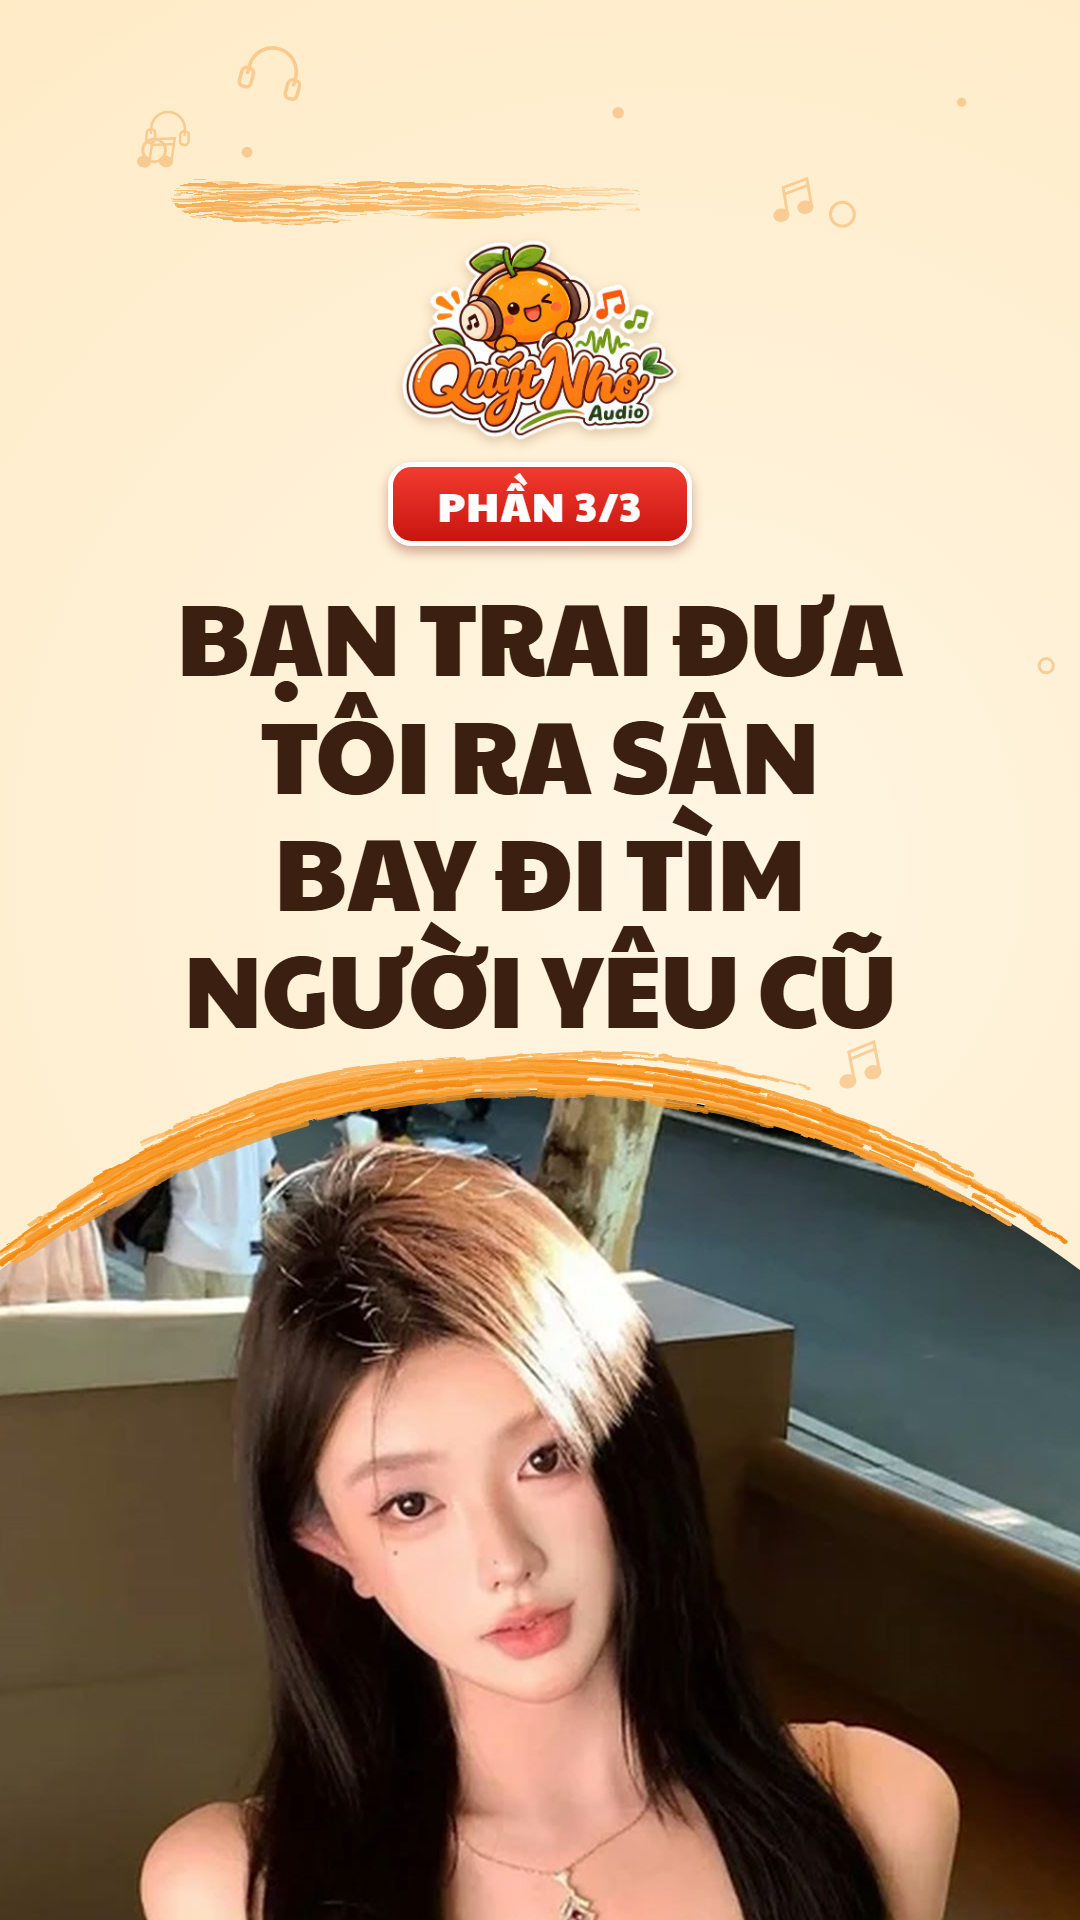
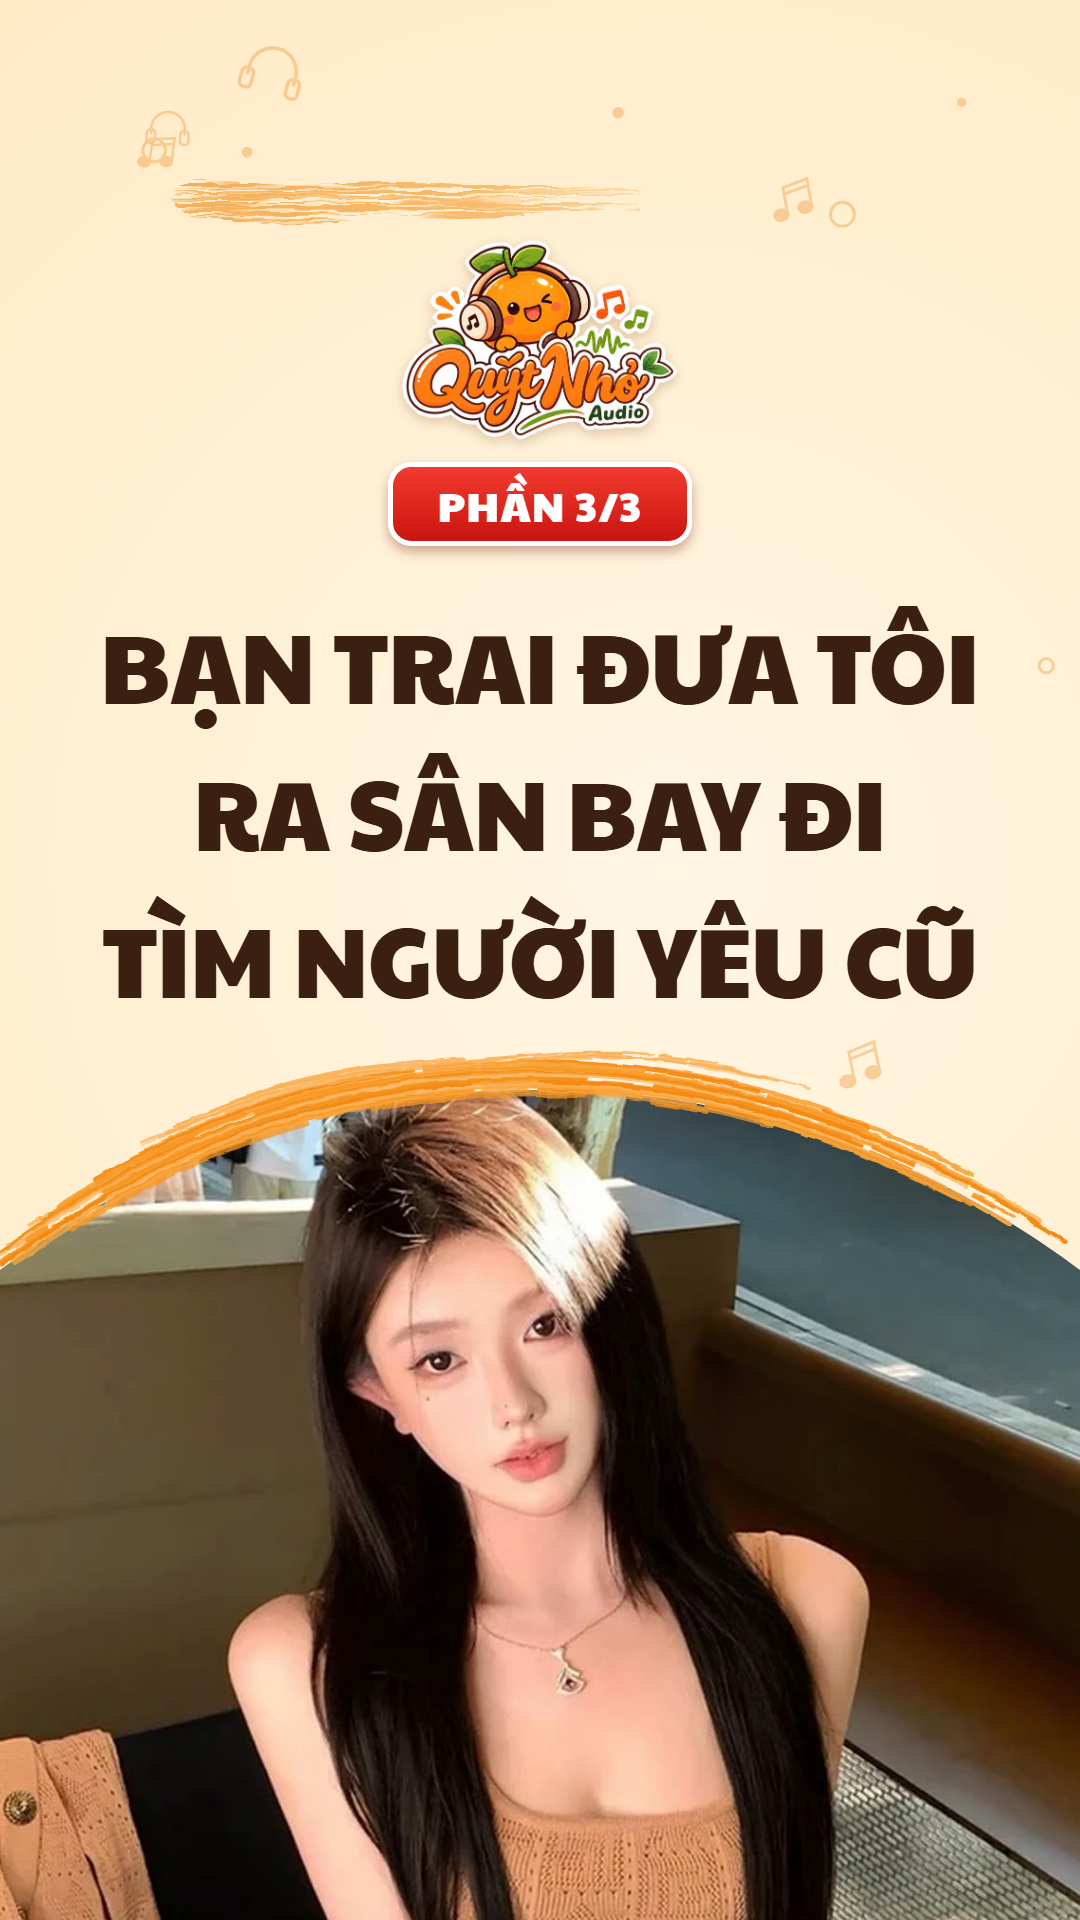
Cập nhật các tập tình cảm (tc001–tc008): bìa TikTok, thumb, episode.json, tap.md, tiêu chuẩn edit

diff --git a/references/edit-yeu-cau.md b/references/edit-yeu-cau.md
@@ -56,7 +56,7 @@ Thiết lập đang áp dụng cho mọi tập. Đọc trước khi sửa `src/`
 - **Người trong hình là người châu Á** khi lộ mặt hoặc dáng rõ. Clip chỉ có tay, đồ vật thì không ràng buộc. Từ khóa: asian, korean, japanese, chinese.
 - **Một tập, một tag; một tag, một video nguồn** (2026-11-22): mỗi tập chỉ dùng footage của một tag; mỗi tag là các đoạn cắt liên tiếp của **một** video nguồn (cùng bàn, cùng kiểu thao tác, cùng tông màu), một thư mục `public/footage/<tag>/`. Hai nguồn cùng chủ đề nhưng khác kiểu (ví dụ dán sticker vào tranh cảnh có sẵn và dán sổ journal) là hai tag. Lý do: trộn hai nguồn trong một video làm hình đổi kiểu đột ngột, nhìn không liền (quan sát ts002, 2026-11-22). Tag nguồn ngắn hơn tập thì chọn tag khác dài hơn, không ghép nguồn.
 - **Chạy liền, không cắt vụn** (2026-11-22): footage phát liền như video gốc: clip 01 từ đầu đến hết, rồi 02, 03... (các clip là đoạn liên tiếp của cùng nguồn nên chuyển clip gần như không thấy). Không đổi cảnh theo nhịp vài chục giây. Tập dài hơn tổng tag thì quay lại clip 01. Bản TikTok lấy đúng đoạn footage cùng mốc thời gian với bản YouTube. Nguồn nên dài ≥ độ dài tập (ưu tiên 30 phút–1 giờ+).
-- **Độ sáng** (2026-11-22): xem độ sáng thực của footage sau `dim` ở mỗi lần render, không giữ mặc định máy móc. Đo độ sáng trung bình Y của tag (`ffmpeg -i clip -vf signalstats`, Y trung bình ~130–145 ở `sticker`, `painting`); sau `dim` hình phải còn sáng, màu rõ, không xám tối (sticker, painting: `dim` 0,05; 0,4 làm tối rõ, quan sát tc002, tc004). Xem một khung của mỗi bản render trước khi giao.
+- **Độ sáng** (2026-11-22): xem độ sáng thực của footage sau `dim` ở mỗi lần render, không giữ mặc định máy móc. Đo độ sáng trung bình Y của tag (`ffmpeg -i clip -vf signalstats`, Y trung bình ~130–145 ở `sticker`, `painting`); sau `dim` hình phải còn sáng, màu rõ, không xám tối (mặc định `dim` 0,15; 0,4 làm tối rõ, quan sát tc002, tc004). Xem một khung của mỗi bản render trước khi giao.
 - **Mỗi tập một thứ tự footage** (2026-11-22): tập dùng chung tag với tập khác phải bắt đầu ở clip khác. `footageOffset` trong `episode.json` (số nguyên, mặc định 0) xoay vòng danh sách clip: offset 2 thì phát clip 03, 04, ..., hết tag quay về 01, 02. Mỗi tập của cùng một tag dùng offset khác nhau, chọn sao cho clip mở đầu không trùng nhau. Đặt ở `footageOffset`, đọc trong `src/FootageTrack.tsx` và `scripts/lib/ffmpeg-render.mjs`.
 - **Hướng clip**: ưu tiên clip ngang 16:9 cho bản YouTube (phủ kín khung). Clip dọc dùng được cho cả hai bản; ở bản YouTube sẽ có viền đen hai bên.
 - **Chủ đề**: nấu ăn cận cảnh; làm bánh; trang trí đồ ngọt; pha chế đồ uống màu; đồ thủ công pastel; làm gốm; vẽ tranh, tô màu, tô số hóa; ambience đêm; làm nail; ghép hình, dán sticker DIY cận cảnh.
@@ -101,5 +101,5 @@ Thiết lập đang áp dụng cho mọi tập. Đọc trước khi sửa `src/`
 - 2026-11-22: thêm tốc độ footage theo tag (`speed`, `footage-preview.mjs`); quy tắc crop ≥ 60% diện tích, cạnh ngắn ≥ 576 px; loại tag `bake`, `satisfying`; ts003 đổi sang `paint`.
 - 2026-11-22: thêm `start` theo tag (bỏ đoạn đầu clip 01); `craft` tốc độ 2, bỏ 86 giây đầu; `paint` bỏ 9 giây đầu có chữ kênh gốc.
 - 2026-11-22: thêm `footageOffset` theo tập (xoay vòng thứ tự clip) để các tập cùng tag không mở đầu và đi theo cùng một thứ tự footage.
-- 2026-11-22: footage không phủ kín khung (clip dọc trên khung ngang YouTube, clip vuông/ngang trên TikTok) đặt giữa nền kem họa tiết cùng mẫu bìa thay cho viền đen; `dim` chỉ áp cho footage; tập sticker, painting đặt `dim` 0,05 (0,4 làm hình tối). Thêm `render-episode --limit=giây` để render thử đoạn đầu.
+- 2026-11-22: footage không phủ kín khung (clip dọc trên khung ngang YouTube, clip vuông/ngang trên TikTok) đặt giữa nền kem họa tiết cùng mẫu bìa thay cho viền đen; `dim` chỉ áp cho footage; `dim` mặc định 0,15 (0,4 làm hình tối). Thêm `render-episode --limit=giây` để render thử đoạn đầu.
 - 2026-11-23: thêm quy tắc không trùng footage giữa các tập; kho ít thì đảo điểm vào của từng tập (chưa có trường riêng theo tập trong `episode.json`: đang là `start` theo tag, xem skill `footage-intake`).

diff --git a/episodes/tinh-cam/tc005-ban-than-cuop-nguoi-yeu-cha-nuoi/tap.md b/episodes/tinh-cam/tc005-ban-than-cuop-nguoi-yeu-cha-nuoi/tap.md
@@ -4,8 +4,8 @@
      Ô trống = chưa quyết. Ghi "gợi ý: ..." khi đã đề xuất nhưng chưa chốt. -->
 
 - **Truyện nguồn**: tc005, stories/tinh-cam/tc005-ban-than-cuop-nguoi-yeu-cha-nuoi.md
-- **Bước hiện tại**: 5
-- **Cập nhật**: 2026-11-21
+- **Bước hiện tại**: 7 (xong)
+- **Cập nhật**: 2026-11-24
 
 ## Quyết định
 
@@ -19,9 +19,8 @@
 | Bối cảnh | Hải Thành, hiện đại, tiền tệ |
 | Độ dài: số chương, phút; cách đủ độ dài | 9 chương, ~39 phút (~7.090 chữ); viết dày + 4 vòng mới (đã duyệt 2026-11-20) |
 | Chia phần TikTok | 3 phần, ch.1–6 (~63% truyện, 2026-11-21): P1 ch.1–2 (treo: dòng tin cũ bỏ qua bảy năm), P2 ch.3–4 (treo: cả nhóm bàn chuyện chú Lục), P3 ch.5–6 (treo: "camera hành lang đã quay lại tất cả"). Ch.7–9 chỉ ở YouTube. |
-| Giọng: dịch vụ, model, giọng, tốc độ (nguồn chính: `voice` trong `episode.json`) | |
-| Footage: chủ đề, nguồn, tag | Dán sticker DIY cận cảnh (tay, nhíp, tranh sticker), tag `sticker` (`public/footage/sticker/`); 19 clip dọc có sẵn ở `D:\Video Footage\Sticker` (đổi từ `cook`, 2026-11-21) |
-| Ảnh bìa: chữ (3–4 dòng), ảnh nhân vật (link nguồn), phương án A/B | chữ: "Bạn thân hôn|người yêu tôi|ngay *sinh nhật*"; ảnh: cô gái tóc dài nâu, áo đen yếm trắng (`public/tc005/thumb-bg.jpg`, từ ảnh người dùng gửi 2026-11-21) |
+| Giọng: dịch vụ, model, giọng, tốc độ (nguồn chính: `voice` trong `episode.json`) | minimax, speech-2.8-hd, tốc độ 1,2 (chi tiết ở `voice` trong `episode.json`) |
+| Footage: chủ đề, nguồn, tag | Vẽ acrylic lên đĩa tròn, cận cảnh tay; tag `paint-d` (`public/footage/paint-d/`), cắt từ video painting 2 giờ, đoạn 61:40–98:20; `dim` 0,15, `footageOffset` 0 |
 | Teaser TikTok 60–90 giây | |
 
 ## Tiến độ
@@ -30,9 +29,9 @@
 - [x] 2. Dàn ý: `outline.md`
 - [x] 3. Viết chương: `script/chNN.tts.txt` (đủ 9 chương, ~7.430 chữ)
 - [x] 4. Soát TTS (9 chương): báo cáo sạch
-- [ ] 5. Giọng: `audio/chNN.mp3`
-- [ ] 6. Footage: `public/footage/sticker/`
-- [ ] 7. Render: `out/`
+- [x] 5. Giọng: `audio/chNN.mp3`
+- [x] 6. Footage: `public/footage/paint-d/`
+- [x] 7. Render: `out/`
 
 ## Nhật ký
 
@@ -47,3 +46,4 @@
 - 2026-11-21: viết ch02–ch09 (tổng 9 chương, 7.428 chữ ≈ 41 phút); normalize-vi sạch cảnh báo; episode.json: 9 phần TikTok mỗi chương một phần. Chờ chốt giọng để gen.
 - 2026-11-21: đổi footage sang chủ đề Sticker (19 clip dọc 576×1024 / 720×1280, 4–13 phút, nguồn `D:\Video Footage\Sticker`), `footageTag` = `sticker`; chuẩn hóa vào `public/footage/sticker/`. Chuẩn bị ảnh bìa từ ảnh người dùng gửi (`prep-thumb`). Còn chờ chốt giọng để gen ch01–ch09.
 - 2026-11-21: chốt TikTok 3 phần (ch.1–6, dừng ở cú treo camera hành lang); `episode.json` `parts` còn 3 phần.
+- 2026-11-24: render lại YouTube và 3 phần TikTok với tag `paint-d`, `dim` 0,15; sửa lỗi tràn RAM ffmpeg ở nền footage dọc; thời lượng khớp audio, độ sáng đã kiểm.

diff --git a/episodes/tinh-cam/tc004-cuoi-chop-nhoang-chong-la-thieu-gia-giau-nhat/tap.md b/episodes/tinh-cam/tc004-cuoi-chop-nhoang-chong-la-thieu-gia-giau-nhat/tap.md
@@ -4,8 +4,8 @@
      Ô trống = chưa quyết. Ghi "gợi ý: ..." khi đã đề xuất nhưng chưa chốt. -->
 
 - **Truyện nguồn**: tc004, stories/tinh-cam/tc004-cuoi-chop-nhoang-chong-la-thieu-gia-giau-nhat.md
-- **Bước hiện tại**: 5
-- **Cập nhật**: 2026-11-21
+- **Bước hiện tại**: 7 (xong)
+- **Cập nhật**: 2026-11-24
 
 ## Quyết định
 
@@ -19,8 +19,8 @@
 | Bối cảnh | Hải Thành hiện đại; tập đoàn Nghiêm thị, Diệp thị đã phá sản; tôi bán xe ở đại lý ô tô; tiền là tệ |
 | Độ dài: số chương, phút; cách đủ độ dài | 9 chương, ~8.290 chữ ≈ 46 phút. Viết dày, vá logic (vì sao anh ở Cục dân chính, vì sao giấu thân phận, vì sao Doanh Doanh biết thân thế tôi); thêm vòng ch.3 (cửa hàng xe), ch.8 (tôi giăng bẫy vụ lừa cổ phần), ch.9 (lá thư của mẹ); "đơn ly hôn" thành giấy chuyển trả cổ phần |
 | Chia phần TikTok | 3 phần: ch.1, ch.2–3, ch.4–5 (~56% chữ, dừng cuối ch.5); chi tiết outline.md |
-| Giọng: dịch vụ, model, giọng, tốc độ (nguồn chính: `voice` trong `episode.json`) | |
-| Footage: chủ đề, nguồn, tag | |
+| Giọng: dịch vụ, model, giọng, tốc độ (nguồn chính: `voice` trong `episode.json`) | minimax, speech-2.8-hd, tốc độ 1,2 (chi tiết ở `voice` trong `episode.json`) |
+| Footage: chủ đề, nguồn, tag | tag `sticker-b` (một nguồn, chạy liền), `dim` 0,15, `footageOffset` 0 |
 | Ảnh bìa: chữ (3–4 dòng), ảnh nhân vật (link nguồn), phương án A/B | |
 | Teaser TikTok 60–90 giây | |
 
@@ -30,9 +30,9 @@
 - [x] 2. Dàn ý: `outline.md`
 - [x] 3. Viết chương: `script/chNN.tts.txt`
 - [x] 4. Soát TTS: báo cáo `normalize-vi.mjs` sạch
-- [ ] 5. Giọng: `audio/chNN.mp3`
-- [ ] 6. Footage: `public/footage/<tag>/`
-- [ ] 7. Render: `out/`
+- [x] 5. Giọng: `audio/chNN.mp3`
+- [x] 6. Footage: `public/footage/<tag>/`
+- [x] 7. Render: `out/`
 
 ## Nhật ký
 
@@ -40,3 +40,4 @@
 - 2026-11-21: sinh sẵn kịch bản bước 1–4 theo `references/kich-ban-hang-loat.md`; 9 chương, ~8.290 chữ, ~46 phút; dàn ý và chương chưa duyệt.
 - 2026-11-21: đổi tên để không trùng tập khác: Giang Ninh → Diệp Khê, Hoắc Cảnh Xuyên → Nghiêm Cảnh Xuyên (Hoắc thị → Nghiêm thị), Giang thị → Diệp thị, Chu Tiểu Đào → Đường Tiểu Đào.
 - 2026-11-21: chia lại TikTok theo chuẩn 3 phần (50–60% truyện): ch.1, ch.2–3, ch.4–5; điểm dừng chọn theo tỉ lệ chữ, cần duyệt theo độ tò mò.
+- 2026-11-24: render lại YouTube và 3 phần TikTok với tag `sticker-b`, `dim` 0,15; sửa lỗi tràn RAM ffmpeg ở nền footage dọc; thời lượng khớp audio, độ sáng đã kiểm.

diff --git a/episodes/tinh-cam/tc008-chong-nho-lai-tinh-cu-doi-ly-hon/tap.md b/episodes/tinh-cam/tc008-chong-nho-lai-tinh-cu-doi-ly-hon/tap.md
@@ -4,8 +4,8 @@
      Ô trống = chưa quyết. Ghi "gợi ý: ..." khi đã đề xuất nhưng chưa chốt. -->
 
 - **Truyện nguồn**: tc008, stories/tinh-cam/tc008-chong-nho-lai-tinh-cu-doi-ly-hon.md
-- **Bước hiện tại**: 5
-- **Cập nhật**: 2026-11-21
+- **Bước hiện tại**: 7 (xong)
+- **Cập nhật**: 2026-11-24
 
 ## Quyết định
 
@@ -19,8 +19,8 @@
 | Bối cảnh | Giang Thành hiện đại; biệt thự, tiệc từ thiện quỹ Tinh Hỏa, bệnh viện tư, khách sạn; một đoạn ở vũ hội mặt nạ tại Pa-ri; tiền là tệ |
 | Độ dài: số chương, phút; cách đủ độ dài | 11 chương, ~10.900 chữ ≈ 60 phút (180 chữ/phút; ở tốc độ giọng 1,2 thực tế ngắn hơn). Cắt từ ~78 phút: tuần du lịch, cảnh nấu ăn lặp, phần lớn ngoại truyện chồng cũ. Thêm: gieo câu "tiền mua được mọi thứ" ở ch.1 và manh mối logo quỹ ở ch.4, twist khoản chuyển tiền lên ch.10; Từ Mặc xuất hiện từ cuối ch.2; nữ chính quyết định giữ con ba ngày trước khi mất con (kể nhẹ); chú cháu đổi thành kết nghĩa, khác họ |
 | Chia phần TikTok | 3 phần: ch.1–2, ch.3–4, ch.5–6 (~55% chữ, dừng cuối ch.6); chi tiết outline.md |
-| Giọng: dịch vụ, model, giọng, tốc độ (nguồn chính: `voice` trong `episode.json`) | |
-| Footage: chủ đề, nguồn, tag | |
+| Giọng: dịch vụ, model, giọng, tốc độ (nguồn chính: `voice` trong `episode.json`) | minimax, speech-2.8-hd, tốc độ 1,2 (chi tiết ở `voice` trong `episode.json`) |
+| Footage: chủ đề, nguồn, tag | tag `sticker-c` (một nguồn, chạy liền), `dim` 0,15, `footageOffset` 0 |
 | Ảnh bìa: chữ (3–4 dòng), ảnh nhân vật (link nguồn), phương án A/B | |
 | Teaser TikTok 60–90 giây | |
 
@@ -30,12 +30,13 @@
 - [x] 2. Dàn ý: `outline.md`
 - [x] 3. Viết chương: `script/chNN.tts.txt`
 - [x] 4. Soát TTS: báo cáo `normalize-vi.mjs` sạch
-- [ ] 5. Giọng: `audio/chNN.mp3`
-- [ ] 6. Footage: `public/footage/<tag>/`
-- [ ] 7. Render: `out/`
+- [x] 5. Giọng: `audio/chNN.mp3`
+- [x] 6. Footage: `public/footage/<tag>/`
+- [x] 7. Render: `out/`
 
 ## Nhật ký
 
 - 2026-11-21: mở tập.
 - 2026-11-21: sinh sẵn kịch bản bước 1–4 theo `references/kich-ban-hang-loat.md`; 11 chương, ~10.900 chữ, ~60 phút; dàn ý và chương chưa duyệt.
 - 2026-11-21: chia lại TikTok theo chuẩn 3 phần (50–60% truyện): ch.1–2, ch.3–4, ch.5–6; điểm dừng chọn theo tỉ lệ chữ, cần duyệt theo độ tò mò.
+- 2026-11-24: render lại YouTube và 3 phần TikTok với tag `sticker-c`, `dim` 0,15; sửa lỗi tràn RAM ffmpeg ở nền footage dọc; thời lượng khớp audio, độ sáng đã kiểm.

diff --git a/episodes/tinh-cam/tc002-xuyen-ba-nam-bat-gap-nguoi-yeu-moi/tap.md b/episodes/tinh-cam/tc002-xuyen-ba-nam-bat-gap-nguoi-yeu-moi/tap.md
@@ -4,8 +4,8 @@
      Ô trống = chưa quyết. Ghi "gợi ý: ..." khi đã đề xuất nhưng chưa chốt. -->
 
 - **Truyện nguồn**: tc002, stories/tinh-cam/tc002-xuyen-ba-nam-bat-gap-nguoi-yeu-moi.md
-- **Bước hiện tại**: 5
-- **Cập nhật**: 2026-11-21
+- **Bước hiện tại**: 7 (xong)
+- **Cập nhật**: 2026-11-24
 
 ## Quyết định
 
@@ -19,8 +19,8 @@
 | Bối cảnh | Trung Quốc hiện đại: Thâm Quyến (quán nướng Phúc Điền) và Hàng Châu (căn hộ ven hồ); kết ở châu Phi; tiền là tệ; không ghi năm bằng số |
 | Độ dài: số chương, phút; cách đủ độ dài | 9 chương, ~8.000 chữ, ~44 phút. Gộp hai nguồn (~4.070 chữ), thêm vòng camera cầu thang (ch.3), Uông Khải lợi dụng mất trí nhớ (ch.5), cầu nối cưới do tôi đề nghị và cặp vé châu Phi hết hạn (ch.6–7); dời cảnh núi tuyết và tin nhắn người yêu cũ xuống kết; twist lá thư viết tay của chính tôi trong bó hoa |
 | Chia phần TikTok | 3 phần: ch.1, ch.2–3, ch.4–5 (~54% chữ, dừng cuối ch.5); chi tiết outline.md |
-| Giọng: dịch vụ, model, giọng, tốc độ (nguồn chính: `voice` trong `episode.json`) | |
-| Footage: chủ đề, nguồn, tag | |
+| Giọng: dịch vụ, model, giọng, tốc độ (nguồn chính: `voice` trong `episode.json`) | minimax, speech-2.8-hd, tốc độ 1,2 (chi tiết ở `voice` trong `episode.json`) |
+| Footage: chủ đề, nguồn, tag | tag `sticker-a` (một nguồn, chạy liền), `dim` 0,15, `footageOffset` 0 |
 | Ảnh bìa: chữ (3–4 dòng), ảnh nhân vật (link nguồn), phương án A/B | |
 | Teaser TikTok 60–90 giây | |
 
@@ -30,12 +30,13 @@
 - [x] 2. Dàn ý: `outline.md`
 - [x] 3. Viết chương: `script/chNN.tts.txt`
 - [x] 4. Soát TTS: báo cáo `normalize-vi.mjs` sạch
-- [ ] 5. Giọng: `audio/chNN.mp3`
-- [ ] 6. Footage: `public/footage/<tag>/`
-- [ ] 7. Render: `out/`
+- [x] 5. Giọng: `audio/chNN.mp3`
+- [x] 6. Footage: `public/footage/<tag>/`
+- [x] 7. Render: `out/`
 
 ## Nhật ký
 
 - 2026-11-21: mở tập.
 - 2026-11-21: sinh sẵn kịch bản bước 1–4 theo `references/kich-ban-hang-loat.md`; 9 chương, ~8.000 chữ, ~44 phút; dàn ý và chương chưa duyệt.
 - 2026-11-21: chia lại TikTok theo chuẩn 3 phần (50–60% truyện): ch.1, ch.2–3, ch.4–5; điểm dừng chọn theo tỉ lệ chữ, cần duyệt theo độ tò mò.
+- 2026-11-24: render lại YouTube và 3 phần TikTok với tag `sticker-a`, `dim` 0,15; sửa lỗi tràn RAM ffmpeg ở nền footage dọc; thời lượng khớp audio, độ sáng đã kiểm.

diff --git a/stories/README.md b/stories/README.md
@@ -159,14 +159,14 @@ Trạng thái và bước hiện tại: `node scripts/stories.mjs` (tính từ f
 
 | Tập | Giọng | Footage | Hồ sơ |
 |---|---|---|---|
-| tc005 | minimax speech-2.8-hd, tốc độ 1,2 | `cook` | Base ~13 phút (dưới chuẩn); ngoại lệ vì đang làm tập, dàn ý đã mở lên 39 phút |
+| tc005 | minimax speech-2.8-hd, tốc độ 1,2 | `paint-d` | Base ~13 phút (dưới chuẩn); ngoại lệ vì đang làm tập, dàn ý đã mở lên 39 phút; render xong 2026-11-24 (dim 0,15), chờ đăng |
 | tc001 | chưa chốt | chưa chốt | Base ~18 phút (dưới chuẩn 25–60); sẽ viết dày lên ~30–35 phút |
-| tc004 | chưa chốt | chưa chốt | mở 2026-11-21 |
+| tc004 | minimax speech-2.8-hd, tốc độ 1,2 | `sticker-b` | render xong 2026-11-24 (dim 0,15), chờ đăng |
 | tc007 | chưa chốt | chưa chốt | mở 2026-11-21 |
 | ts003 | voice d99082f8, tốc độ 1,2 | `bake` | đã render 2026-11-22, chờ đăng |
-| tc002 | chưa chốt | chưa chốt | mở 2026-11-21 |
+| tc002 | minimax speech-2.8-hd, tốc độ 1,2 | `sticker-a` | render xong 2026-11-24 (dim 0,15), chờ đăng |
 | tc006 | chưa chốt | chưa chốt | mở 2026-11-21 |
-| tc008 | chưa chốt | chưa chốt | mở 2026-11-21 |
+| tc008 | minimax speech-2.8-hd, tốc độ 1,2 | `sticker-c` | render xong 2026-11-24 (dim 0,15), chờ đăng |
 | tc009 | chưa chốt | chưa chốt | mở 2026-11-21 |
 | tc010 | chưa chốt | chưa chốt | mở 2026-11-21 |
 | tc011 | chưa chốt | chưa chốt | mở 2026-11-21 |
